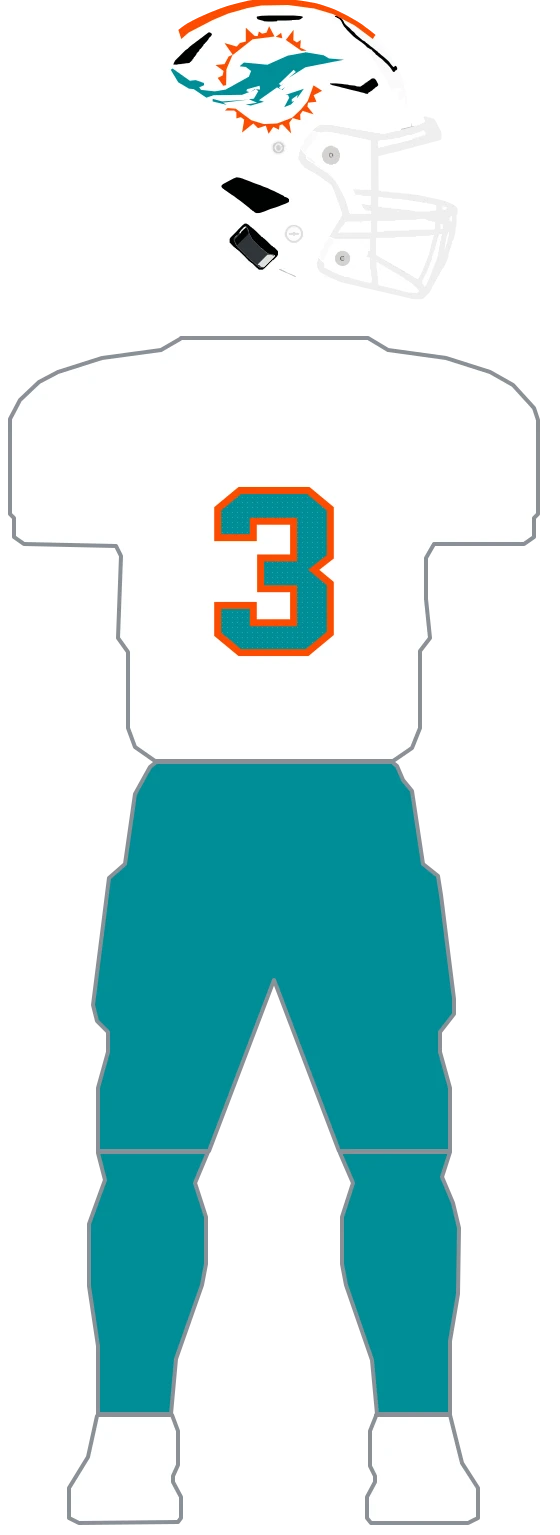
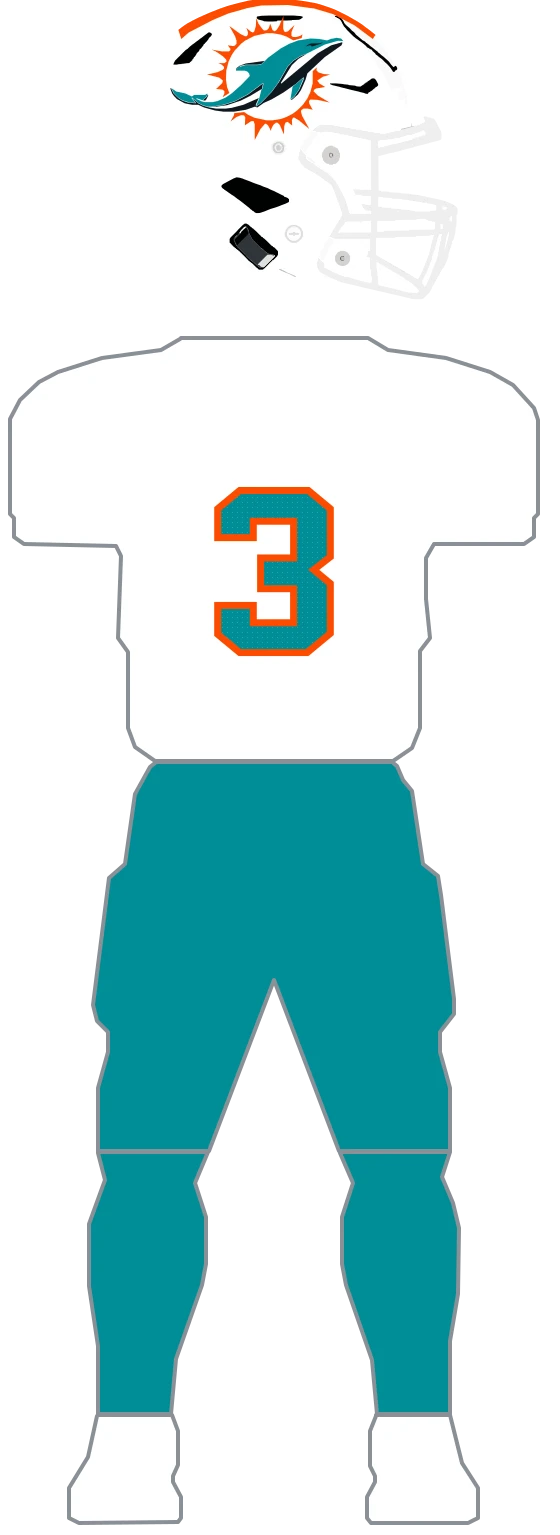
fix(uniforms): re-author Dolphins helmet decal (#740)
* fix(uniforms): re-author Dolphins helmet decal

* fix(uniforms): correct Dolphins dark facemask

Changed region(s): [[0.3036, 0.0, 0.6071, 0.0919]]

diff --git a/lib/uniforms/teams/dolphins.ts b/lib/uniforms/teams/dolphins.ts
@@ -23,9 +23,11 @@ export const DOLPHINS_WHITE = '#FFFFFF';
 // teal dolphin breaking through a solid orange ring. The "M" on the throwback dolphin's helmet is
 // dropped (about 2px in the reference).
 export const DOLPHINS_DECAL_SUNBURST_PATH =
-  'M418.0,120.9 L428.6,141.0 L384.8,146.6 L344.2,178.6 L332.3,206.9 L331.7,238.3 L326.0,239.5 L314.8,223.8 L324.8,218.8 L326.6,210.0 L310.4,198.1 L328.5,196.2 L336.7,181.1 L344.8,177.4 L328.5,154.1 L352.9,161.1 L359.2,154.1 L371.1,151.0 L371.1,123.4 L388.6,139.7 L394.8,140.3 L397.3,130.9 L403.6,135.3 L412.3,133.4 L417.3,121.5 Z M466.8,127.8 L466.1,148.5 L473.6,152.9 L481.1,147.9 L479.9,163.6 L493.0,169.2 L482.4,169.8 L451.1,147.9 L466.1,128.4 Z M441.7,133.4 L444.2,144.7 L431.1,141.6 L441.1,134.1 Z M506.8,238.9 L523.7,249.6 L506.8,258.4 L512.4,271.5 L495.5,273.4 L494.3,281.0 L506.8,296.7 L484.9,289.8 L479.9,296.7 L480.5,308.6 L464.9,304.2 L458.0,313.6 L461.8,335.0 L444.2,316.7 L438.6,318.6 L437.4,327.4 L426.1,321.8 L416.7,335.6 L411.1,319.3 L395.5,324.3 L386.1,314.9 L363.6,333.1 L367.9,307.3 L361.1,302.3 L352.3,304.8 L352.3,292.9 L347.9,289.1 L329.2,289.1 L334.8,284.1 L351.0,285.4 L382.3,308.6 L407.3,316.1 L433.6,314.9 L463.6,303.6 L481.1,287.2 L494.9,270.3 L506.2,239.5 Z';
+  'M513.2,202.6 L512.4,208.7 L517.0,213.2 L527.6,216.2 L539.7,217.0 L525.3,221.5 L514.0,229.1 L518.5,235.2 L529.9,242.0 L511.7,245.0 L508.7,246.6 L506.4,250.3 L515.5,259.4 L539.0,273.1 L514.7,267.8 L500.3,267.0 L497.3,270.1 L498.1,275.4 L504.9,287.5 L495.0,285.2 L486.7,285.2 L482.1,288.2 L481.4,291.3 L483.7,299.6 L498.1,326.1 L478.4,309.5 L468.5,303.4 L465.5,303.4 L463.2,308.7 L464.0,319.3 L454.9,311.7 L450.3,313.3 L448.1,320.1 L447.3,336.8 L439.0,317.8 L434.4,313.3 L431.4,313.3 L426.1,317.8 L420.0,329.9 L419.3,325.4 L415.5,318.6 L411.7,315.5 L409.4,315.5 L400.3,326.1 L389.0,348.1 L389.0,317.0 L386.7,310.2 L382.1,310.2 L369.3,318.6 L370.0,302.6 L367.7,298.9 L362.4,298.1 L352.6,301.9 L340.5,311.0 L347.3,298.9 L348.0,294.3 L367.7,292.0 L375.3,297.3 L388.2,303.4 L412.4,308.7 L424.6,308.7 L442.0,305.7 L452.6,301.9 L465.5,295.1 L474.6,288.2 L485.2,277.6 L494.3,264.8 L500.3,251.9 L504.9,234.4 L504.9,210.2 L512.4,203.4 Z M446.5,98.8 L445.8,124.5 L447.3,129.8 L449.6,132.1 L455.6,130.6 L468.5,117.7 L462.4,132.1 L462.4,139.7 L465.5,142.0 L472.3,142.0 L479.9,139.7 L484.4,136.7 L482.9,144.2 L466.2,148.8 L452.6,141.2 L442.0,137.4 L424.6,134.4 L412.4,134.4 L388.2,139.7 L369.3,149.5 L362.4,154.8 L348.8,169.2 L342.7,178.3 L336.7,191.2 L332.1,208.7 L331.4,226.9 L333.6,242.0 L338.2,254.1 L324.6,262.5 L328.3,254.9 L328.3,250.3 L324.6,247.3 L311.7,245.8 L323.8,234.4 L325.3,229.9 L324.6,228.4 L317.7,223.1 L293.5,217.0 L313.9,212.5 L324.6,207.9 L327.6,204.9 L327.6,201.8 L323.0,197.3 L316.2,194.3 L328.3,194.3 L332.9,190.5 L331.4,186.7 L325.3,180.6 L310.9,170.8 L302.6,167.0 L323.0,170.8 L337.4,170.8 L339.7,169.2 L340.5,166.2 L335.2,158.6 L345.8,160.2 L348.8,159.4 L352.6,155.6 L352.6,149.5 L349.6,140.4 L338.2,120.0 L360.2,135.9 L369.3,140.4 L373.0,140.4 L375.3,136.7 L375.3,132.1 L372.3,123.8 L382.1,132.1 L385.9,132.9 L388.2,130.6 L391.2,120.0 L392.0,104.1 L396.5,115.4 L405.6,127.6 L407.9,129.1 L413.2,128.3 L417.0,124.5 L420.0,115.4 L424.6,128.3 L429.1,130.6 L432.9,127.6 L438.2,119.2 L446.5,99.5 Z';
 export const DOLPHINS_DECAL_DOLPHIN_PATH =
-  'M489.9,172.4 L526.8,178.6 L537.4,184.9 L567.5,187.4 L490.5,202.5 L456.8,223.8 L471.1,211.9 L466.8,207.5 L437.4,235.8 L441.7,239.5 L448.6,232.6 L437.4,242.7 L442.4,247.7 L449.9,242.0 L444.2,248.3 L433.6,242.7 L397.3,268.4 L407.3,271.5 L381.1,279.1 L371.1,277.2 L393.6,273.4 L377.3,266.5 L387.3,265.3 L396.1,250.2 L391.1,246.4 L380.4,252.1 L388.6,246.4 L399.8,247.1 L398.6,239.5 L373.6,246.4 L372.3,250.2 L377.9,252.1 L363.6,257.7 L306.6,258.4 L292.2,263.4 L267.2,246.4 L257.2,245.2 L236.0,232.6 L220.9,207.5 L224.7,205.0 L259.1,229.5 L271.0,228.2 L287.2,233.9 L287.9,238.3 L277.9,242.7 L281.6,247.7 L309.1,250.8 L331.0,247.1 L377.3,221.3 L381.7,210.0 L371.1,201.9 L358.6,200.6 L367.3,193.1 L414.2,197.5 L454.9,179.3 L489.3,173.0 Z M487.4,245.2 L473.6,264.6 L474.9,257.7 L463.0,266.5 L463.0,271.5 L468.0,270.3 L461.1,277.2 L448.0,282.2 L458.0,263.4 L455.5,257.7 L450.5,257.7 L486.8,245.8 Z M305.4,265.9 L324.1,270.9 L376.1,267.2 L325.4,273.4 L332.9,277.8 L304.8,270.9 L304.8,266.5 Z';
+  'M551.1,143.5 L561.7,145.0 L566.2,150.3 L555.6,149.5 L529.1,157.1 L495.8,173.8 L480.6,179.9 L466.2,189.0 L454.1,201.8 L435.2,234.4 L422.3,251.9 L401.1,273.8 L391.2,280.7 L397.3,267.0 L402.6,246.6 L404.1,245.8 L406.4,235.9 L405.6,233.7 L375.3,256.4 L349.6,270.1 L325.3,277.6 L301.8,281.4 L295.8,281.4 L285.2,278.4 L276.1,273.8 L263.9,263.2 L262.4,264.0 L270.8,273.8 L259.4,273.1 L244.2,268.5 L235.9,263.2 L227.6,254.9 L222.3,244.3 L232.1,251.1 L250.3,254.9 L263.2,261.0 L267.7,257.9 L289.7,257.9 L294.2,254.9 L292.7,261.0 L284.4,268.5 L273.8,264.8 L271.5,265.5 L282.9,270.8 L289.7,272.3 L304.1,272.3 L314.7,270.1 L330.6,263.2 L342.7,254.9 L362.4,237.5 L379.1,220.0 L377.6,214.7 L373.8,210.9 L369.3,209.4 L351.8,209.4 L351.1,207.1 L356.4,202.6 L370.8,198.1 L395.0,198.1 L402.6,196.5 L415.5,183.6 L441.2,164.7 L457.9,155.6 L476.1,148.8 L500.3,145.0 L516.2,145.8 L533.7,148.8 L541.2,145.8 L550.3,144.2 Z M487.4,222.3 L476.8,248.1 L467.7,261.0 L460.2,267.0 L464.7,241.3 L486.7,223.1 Z';
+export const DOLPHINS_DECAL_NAVY_PATH =
+  'M561.7,152.6 L564.7,153.3 L562.5,158.6 L529.1,182.1 L494.3,214.7 L490.5,227.6 L481.4,248.1 L475.3,257.2 L463.2,267.8 L460.9,267.8 L468.5,261.0 L477.6,248.1 L485.9,229.1 L487.4,224.6 L486.7,222.3 L470.8,235.9 L445.8,253.4 L422.3,267.0 L407.1,273.8 L394.3,282.9 L389.0,281.4 L371.5,287.5 L348.0,291.3 L326.1,291.3 L309.4,289.0 L287.4,282.9 L276.1,277.6 L263.9,277.6 L248.8,274.6 L233.6,266.3 L227.6,260.2 L223.8,254.9 L220.0,245.0 L221.5,244.3 L226.8,254.9 L235.9,264.0 L244.2,269.3 L255.6,273.1 L270.8,274.6 L271.5,273.8 L263.9,264.0 L276.1,274.6 L285.2,279.2 L298.0,282.9 L311.7,285.2 L330.6,285.2 L342.7,283.7 L366.2,277.6 L397.3,264.0 L391.2,276.9 L391.2,281.4 L401.1,274.6 L423.0,251.9 L437.4,232.2 L454.9,201.8 L466.2,189.7 L480.6,180.6 L494.3,174.6 L476.1,185.9 L463.2,198.1 L441.2,233.7 L442.0,235.2 L514.7,174.6 L542.0,158.6 L560.9,153.3 Z M405.6,234.4 L403.3,245.8 L380.6,259.4 L360.9,269.3 L333.6,278.4 L312.4,281.4 L302.6,281.4 L325.3,278.4 L349.6,270.8 L375.3,257.2 L404.9,235.2 Z M409.4,189.0 L402.6,195.8 L395.0,197.3 L370.8,197.3 L360.9,199.6 L351.1,206.4 L352.6,204.1 L358.6,199.6 L370.8,195.0 L408.7,189.7 Z M524.6,152.6 L525.3,153.3 L520.8,155.6 L504.1,160.9 L502.6,160.9 L501.8,158.6 L497.3,158.6 L490.5,161.7 L488.2,164.7 L494.3,157.9 L501.8,154.8 L515.5,154.8 L523.8,153.3 Z M295.0,255.7 L295.8,259.4 L292.0,267.0 L289.7,269.3 L285.2,268.5 L293.5,261.0 L295.0,256.4 Z';
 export const DOLPHINS_TB_DECAL_RING_PATH =
   'M392.3,111.5 L413.0,121.5 L438.0,115.2 L455.5,134.1 L480.5,135.3 L484.3,154.1 L507.4,170.5 L507.4,194.3 L521.8,211.9 L513.0,230.1 L513.7,246.4 L519.3,257.1 L500.5,274.1 L498.0,286.6 L501.2,294.8 L479.9,302.3 L470.5,311.1 L464.3,327.4 L452.4,324.3 L438.6,326.8 L423.6,340.6 L399.8,331.2 L377.3,339.3 L363.6,321.8 L351.0,314.2 L354.8,308.0 L387.9,322.4 L427.4,322.4 L457.4,309.8 L488.0,280.3 L502.4,248.3 L502.4,205.6 L489.3,173.6 L462.4,146.0 L437.4,133.4 L401.1,129.7 L362.3,140.3 L332.9,165.4 L312.9,204.4 L312.9,247.7 L325.4,274.1 L324.1,289.8 L306.0,281.6 L307.9,259.0 L294.7,241.4 L302.3,225.1 L301.6,206.3 L295.4,198.1 L313.5,181.1 L316.0,156.7 L339.2,147.2 L352.9,124.6 L373.6,127.8 L391.7,112.1 Z M429.2,184.9 L432.4,186.8 L429.2,200.0 L413.0,191.2 L416.1,185.5 L423.0,193.7 L428.6,185.5 Z';
 export const DOLPHINS_TB_DECAL_DOLPHIN_PATH =

diff --git a/lib/uniforms/teams/dolphins.parts.ts b/lib/uniforms/teams/dolphins.parts.ts
@@ -10,13 +10,15 @@
 //
 // The kits combine three helmets (white shell, navy rivalries shell, white throwback shell with a
 // teal stripe), four jerseys (teal, white, navy, teal-with-bands), and three pants (white shared by
-// home + 1972, teal, navy).
+// home + 1972, teal, navy). The away kit carries both teal and white pants options; teal stays
+// canonical so its existing raster remains unchanged.
 
 import { HELMET_CROWN_STRIPE_PATH } from './shared';
 import {
   DOLPHINS_COLLAR_PATH,
   DOLPHINS_COLLAR_WIDTH,
   DOLPHINS_DECAL_DOLPHIN_PATH,
+  DOLPHINS_DECAL_NAVY_PATH,
   DOLPHINS_DECAL_SUNBURST_PATH,
   DOLPHINS_SLASH_LEFT,
   DOLPHINS_SLASH_RIGHT,
@@ -65,6 +67,18 @@ function decal(ring: string, dolphin: string, throwback = false): PartLayer[] {
       kind: 'fill',
       fill: dolphin,
     },
+    ...(!throwback
+      ? [
+          {
+            id: 'dolphins-decal-navy',
+            surface: 'helmet' as const,
+            d: DOLPHINS_DECAL_NAVY_PATH,
+            clip: true,
+            kind: 'fill' as const,
+            fill: 'navy',
+          },
+        ]
+      : []),
   ];
 }
 
@@ -103,10 +117,11 @@ const HELMET_WHITE: UniformPart = {
   layers: [...crownStripe('orange'), ...decal('orange', 'teal')],
 };
 
-// The navy rivalries shell (H2) with the orange stripe + sunburst.
+// The navy rivalries shell (H2) with the orange stripe + sunburst and dark navy cage, as shown
+// by the GUD dark alternate figure.
 const HELMET_NAVY: UniformPart = {
   base: 'navy',
-  facemask: 'white',
+  facemask: 'navy',
   layers: [...crownStripe('orange'), ...decal('orange', 'teal')],
 };
 
@@ -192,7 +207,7 @@ const JERSEY_1972: UniformPart = {
 // White pants (P1, shared by home + 1972).
 const PANTS_WHITE: UniformPart = { base: 'white', layers: [] };
 
-// Teal pants (P2, away).
+// Teal pants (P2, away canonical option).
 const PANTS_TEAL: UniformPart = { base: 'teal', layers: [] };
 
 // Navy pants (P3, rivalries).
@@ -218,7 +233,7 @@ export const DOLPHINS_PARTS: TeamPartsDefinition = {
   pants: { white: PANTS_WHITE, teal: PANTS_TEAL, navy: PANTS_NAVY },
   kits: {
     home: { helmet: 'white', jersey: 'teal', pants: 'white' },
-    away: { helmet: 'white', jersey: 'white', pants: 'teal' },
+    away: { helmet: 'white', jersey: 'white', pants: ['teal', 'white'] },
     'rivalries-2025': { helmet: 'navy', jersey: 'navy', pants: 'navy' },
     '1972-throwback': { helmet: 'white1972', jersey: '1972', pants: 'white' },
   },

diff --git a/scripts/uniform-draw/dolphins_decal.py b/scripts/uniform-draw/dolphins_decal.py
@@ -1,0 +1,106 @@
+"""Regenerate the Miami Dolphins helmet decal in ``lib/uniforms/teams/dolphins.ts``.
+
+    python3 scripts/uniform-draw/dolphins_decal.py            # print the paths
+    python3 scripts/uniform-draw/dolphins_decal.py --check    # verify dolphins.ts matches
+
+This is a CONTOUR TRACE based on the approved standalone Dolphins mark, not on the internal
+uniform composite. The upstream mark is Wikimedia's ``File:Miami Dolphins logo.svg``: a
+trademarked, non-free mark used as a fair-use visual reference. No source SVG or raster is
+committed. The internal 2025 GUD composite is used only for placement measurements and pants
+option enumeration.
+
+TOPOLOGY, measured before tracing. Rendering the SVG at its true 250:198 aspect and cropping to
+the painted art gives a 458x333 art box. The usable helmet mark has two orange components (the
+sunburst is split by the dolphin), two teal components (main dolphin and rear fin), and five
+navy components (body/keyline and four small separated details). The apparent white disc and
+white dolphin gaps are shell-coloured negative space, not additional painted layers, so they are
+excluded. The colour predicates are applied to the cropped artwork and components below 30
+pixels are rejected only as antialias debris; all five navy components exceed that threshold.
+
+SELECTION TRAPS. The SVG's white region is not a helmet decal layer: on the white-shell GUD
+reference it is the shell showing through, and on the navy shell the current composite still
+shows the shell between the orange rays. The source also contains separated navy details that
+must not be collapsed into the teal body. Each colour is therefore traced independently, with
+all components sharing one art crop so their relative topology is retained.
+
+PLACEMENT. In the 2025 GUD composite, the current helmet shell is approximately x=59..164,
+y=75..162 and the visible coloured mark is approximately x=72..153, y=91..132: about 12.4%
+left, 77.1% wide, 18.4% top, and 47.1% tall. Those fractions are transferred to raw helmet
+space, then the flat mark's true 458:333 aspect is preserved in the emitted box rather than
+stretching the source to the foreshortened composite height. The established raw placement box
+is ``Box(220.0, 98.0, 347.0, 252.4)``; clipping handles the wrapped rear edge and keeps the
+front extent aligned with the existing helmet landmark.
+
+RENDERER WORKAROUND. qlmanage thumbnails wide SVGs as squares, so this script uses ImageMagick
+at the SVG's true aspect before handing pixels to drawkit. It deliberately delegates masks,
+connected components, contour simplification, path emission, and ``--check`` to drawkit.py.
+The generated paths are mechanically copied into the team module; do not hand-edit them.
+"""
+
+import subprocess
+import sys
+import tempfile
+from pathlib import Path
+
+sys.path.insert(0, str(Path(__file__).resolve().parent))
+
+from PIL import Image  # noqa: E402
+
+from drawkit import Box, components, crop_to_art, main, mask, trace  # noqa: E402
+
+REF = Path.home() / 'Documents/GitHubProjects/nfl-uniform-refs/dolphins/dolphins-mark.svg'
+MODULE = Path(__file__).resolve().parents[2] / 'lib' / 'uniforms' / 'teams' / 'dolphins.ts'
+BOX = Box(220.0, 98.0, 347.0, 252.4)
+MIN_REGION = 30
+EPS = 1.2
+
+
+def render_reference():
+    # Preserve the source aspect before drawkit measures its colour topology; qlmanage would
+    # otherwise letterbox this wide mark into a square thumbnail.
+    with tempfile.TemporaryDirectory() as tmp:
+        rendered = Path(tmp) / 'dolphins-mark.png'
+        subprocess.run(
+            ['magick', '-background', 'white', '-density', '180', str(REF), str(rendered)],
+            check=True,
+            capture_output=True,
+        )
+        return crop_to_art(Image.open(rendered).convert('RGB'))
+
+
+def orange(c):
+    return c[0] > 180 and c[1] < 130 and c[2] < 80
+
+
+def teal(c):
+    return c[1] > 100 and c[1] > c[0] * 1.5 and c[1] > c[2] * 0.9
+
+
+def navy(c):
+    return c[2] > 60 and c[2] > c[0] * 1.3 and c[1] < 130
+
+
+def colour_mask(im, predicate):
+    m, w, h = mask(im, predicate)
+    # Keep every measured component in this shared crop. The source's white negative spaces are
+    # intentionally absent from all three masks.
+    selected = [cell for component in components(m, w, h, MIN_REGION) for cell in component]
+    cells = set(selected)
+    return [[1 if (x, y) in cells else 0 for x in range(w)] for y in range(h)], w, h
+
+
+def build():
+    im = render_reference()
+    out = {}
+    for name, predicate in (
+        ('DOLPHINS_DECAL_SUNBURST_PATH', orange),
+        ('DOLPHINS_DECAL_DOLPHIN_PATH', teal),
+        ('DOLPHINS_DECAL_NAVY_PATH', navy),
+    ):
+        m, w, h = colour_mask(im, predicate)
+        out[name] = trace(m, w, h, BOX, eps=EPS, minsize=MIN_REGION, space='image')
+    return out
+
+
+if __name__ == '__main__':
+    main(build, MODULE)
